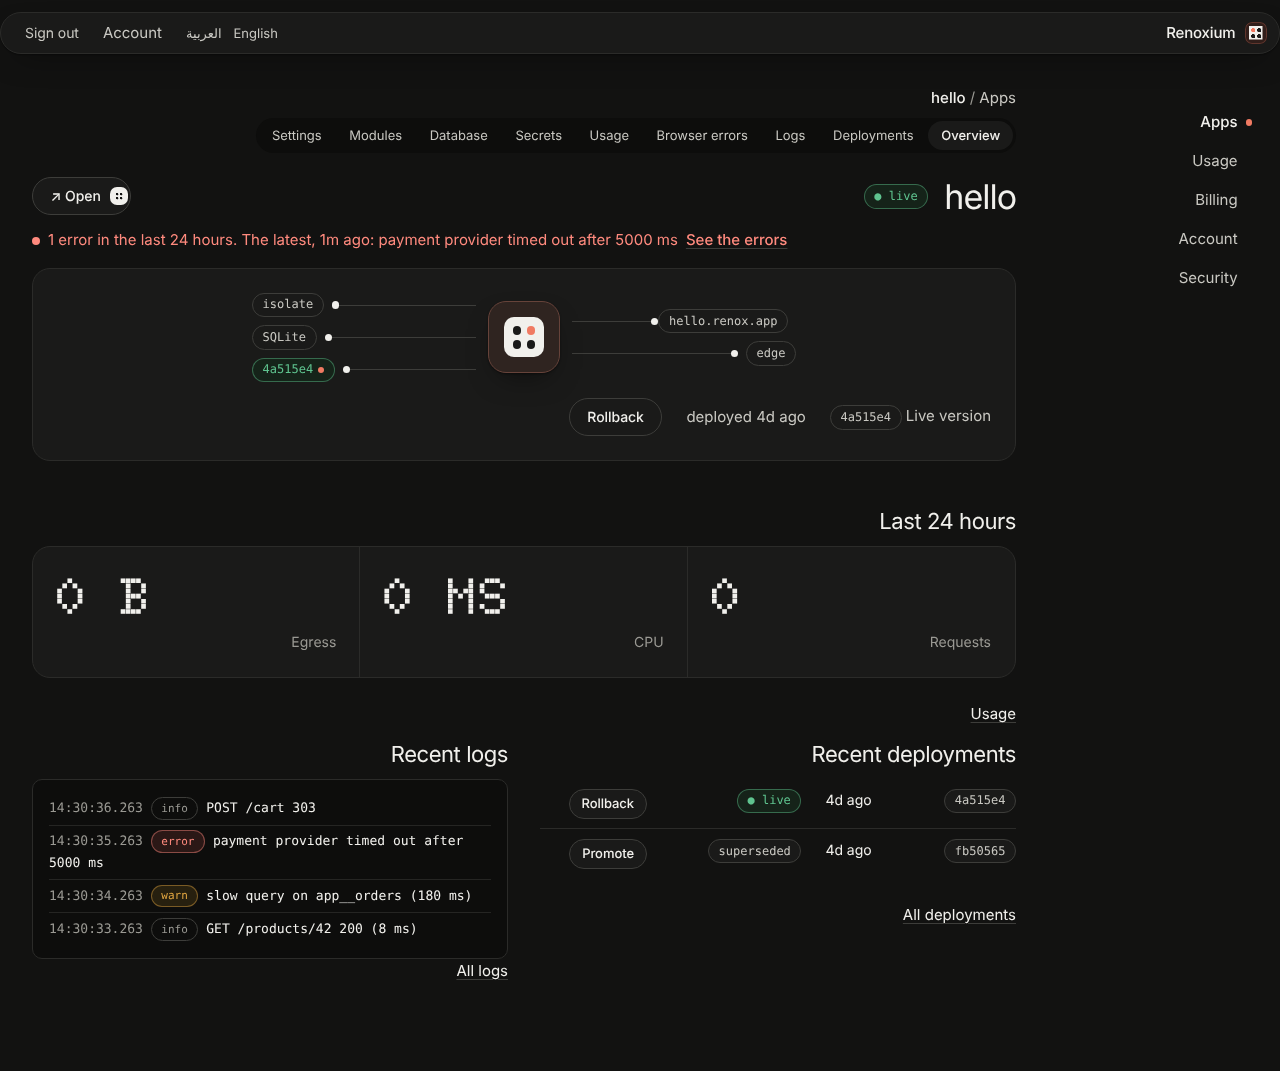
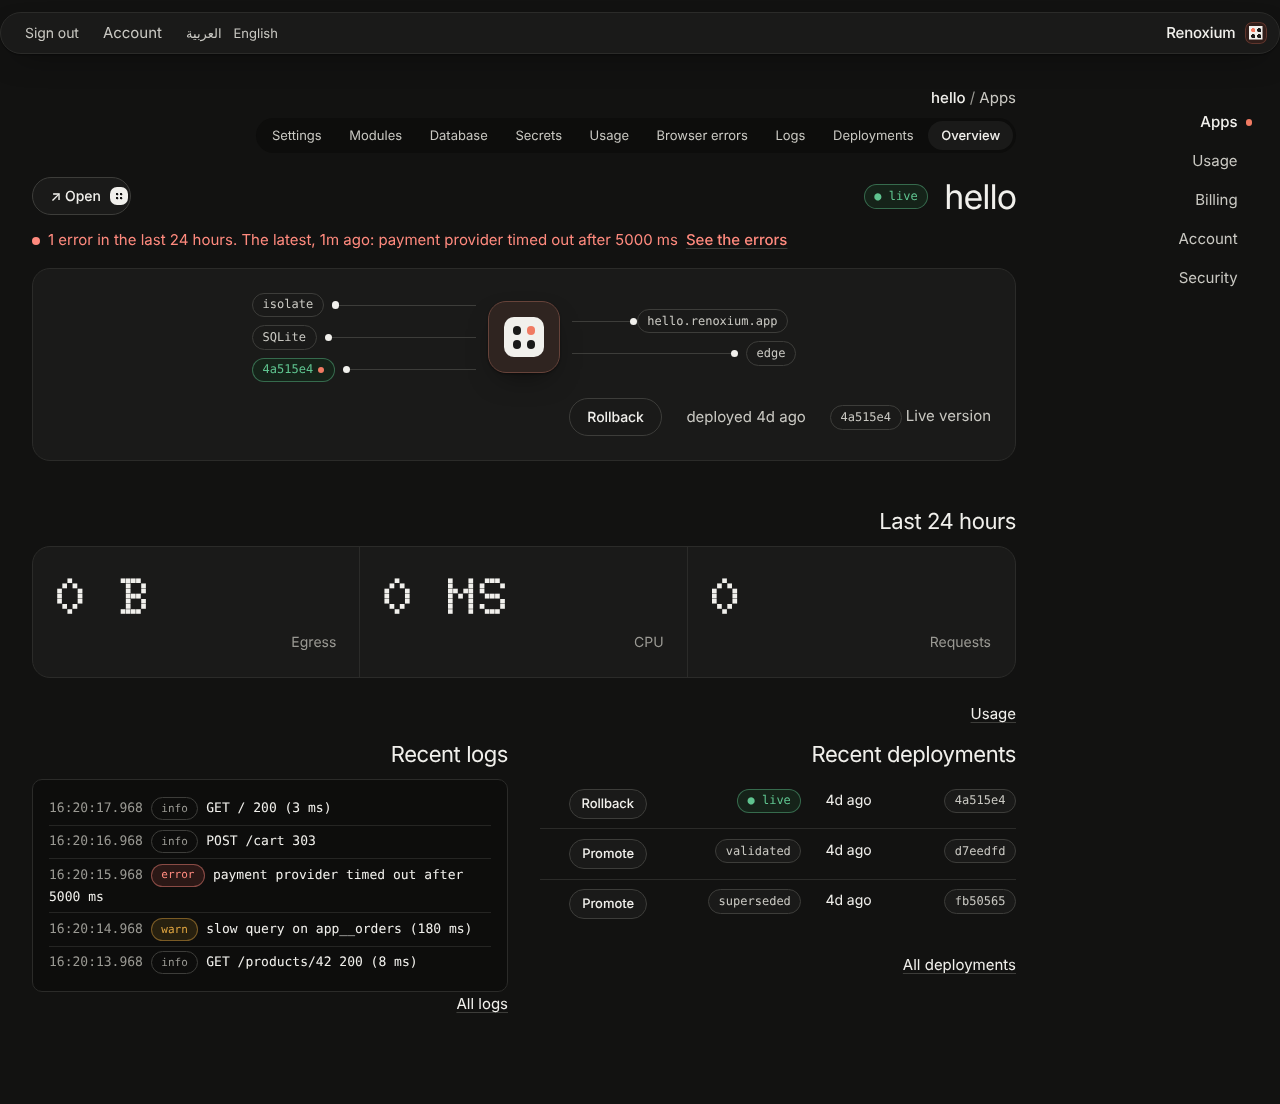
[F7-39] Dashboard screenshots on renoxium.app, not the API fixture's renox.app
The control API's test harness still sets platformDomain "renox.app" (the
pre-rename name, control/api/tests/helpers.ts), so the PR's dashboard
screenshots showed hello.renox.app. tests/screenshots.ts now sets the
product's tenant domain, renoxium.app (docs/contracts/README.md, "Domains"),
on the harness before it creates apps, and the overview, app page and
sign-in screenshots are re-rendered.

Verified: the rendered /apps lists booking, crm and hello on renoxium.app;
tsc --noEmit passes in control/dashboard.

Claude-Session: https://claude.ai/code/session_016s5QLwUYg1mqaaEKVSbdhm

diff --git a/control/dashboard/tests/screenshots.ts b/control/dashboard/tests/screenshots.ts
@@ -24,6 +24,8 @@ const out = process.argv[2] ?? join(tmpdir(), "renox-dashboard-shots");
 mkdirSync(out, { recursive: true });
 
 const d = await dash();
+// The product's tenant domain (docs/contracts/README.md, "Domains"); the API fixture still says renox.app.
+(d.h.deps.config as { platformDomain: string }).platformDomain = "renoxium.app";
 const owner = await tenant(d.h, "t_acme");
 for (const name of ["hello", "booking", "crm"]) await createApp_(d.h, owner, name);
 await registeredNode(d.h, "node-1");
